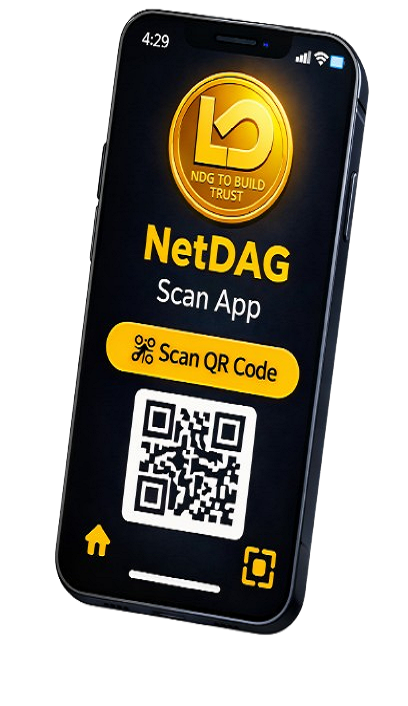
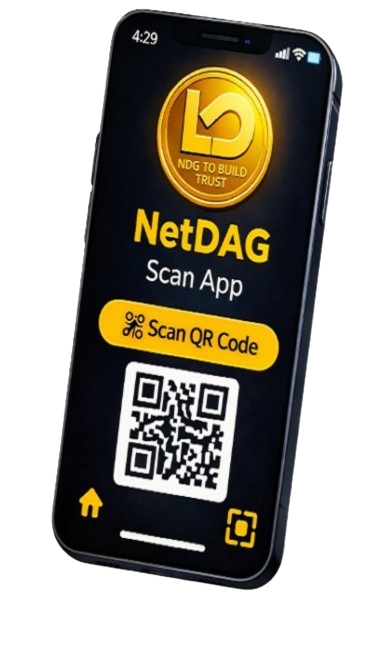
Update Provenance AI layer, Guardian messaging, and transparent phone image

diff --git a/provenance.html b/provenance.html
@@ -1064,7 +1064,7 @@
 
         <!-- Mobile-only phone goes HERE (inside prov-left) -->
         <img
-          src="images/ndg78.png"
+          src="images/ndg80transparent.png"
           class="prov-phone prov-phone-anim prov-phone--mobile"
           alt="NetDAG Scan App"
         />
@@ -1084,7 +1084,7 @@
       <div class="prov-right">
         <!-- Desktop phone goes HERE -->
         <img
-          src="images/ndg78.png"
+          src="images/ndg80transparent.png"
           class="prov-phone prov-phone-anim"
           alt="NetDAG Scan App"
         />
@@ -1095,7 +1095,55 @@
 </section> <!-- /#prov-hero -->
 <!-- Other sections unchanged... -->
 
-    <div class="section-separator" aria-hidden="true"></div>
+   <div class="site-separator" aria-hidden="true"></div>
+
+<section class="prov-ai-layer">
+  <div class="prov-ai-wrap">
+    <div class="prov-ai-head">
+      <span class="prov-ai-kicker">Guardian AI Trust Layer</span>
+      <h2>AI-powered authenticity intelligence for real-world products</h2>
+      <p>
+        NetDAG Provenance is designed to evolve beyond simple QR verification.
+        The Guardian AI layer will help brands, buyers, and marketplaces understand
+        product trust, counterfeit risk, and verification confidence in a clear way.
+      </p>
+    </div>
+
+    <div class="prov-ai-grid">
+      <article class="prov-ai-card">
+        <div class="prov-ai-icon">🧠</div>
+        <h3>Authenticity Rating</h3>
+        <p>
+          Future certificates can include an AI-assisted rating based on provenance
+          history, verified records, ownership signals, scan activity, and product lifecycle data.
+        </p>
+        <strong>Demo concept: 96/100 Guardian Confidence</strong>
+      </article>
+
+      <article class="prov-ai-card">
+        <div class="prov-ai-icon">🔍</div>
+        <h3>Counterfeit Risk Signals</h3>
+        <p>
+          Guardian AI can support counterfeit detection by reviewing suspicious patterns,
+          incomplete records, unusual resale behavior, location mismatches, and image-based signals.
+        </p>
+        <strong>Coming soon</strong>
+      </article>
+
+      <article class="prov-ai-card">
+        <div class="prov-ai-icon">⚖</div>
+        <h3>Brand Protection Tools</h3>
+        <p>
+          Future AI modules may help manufacturers monitor marketplaces, collect evidence,
+          and prepare takedown-ready reports for suspected counterfeit listings.
+        </p>
+        <strong>Enterprise roadmap</strong>
+      </article>
+    </div>
+  </div>
+</section>  
+
+<section id="prov-mvp-demo" class="prov-mvp-section">
 
 <section class="prov-s2">
   <div class="prov-s2-wrap">

diff --git a/guardian.html b/guardian.html
@@ -4,7 +4,7 @@
   <meta charset="utf-8" />
   <meta name="viewport" content="width=device-width, initial-scale=1" />
 
-  <title>NetDAG Guardian — AI That Guards Value</title>
+  <title>NetDAG Guardian AI — Trust, Authenticity & Risk Intelligence</title>
   <meta
     name="description"
     content="NetDAG Guardian is an AI intelligence layer designed to monitor NDG ecosystem risk, liquidity stress, reserve health, and Provenance confidence signals."
@@ -524,13 +524,12 @@
       <div class="section-inner">
         <div class="hero-inner">
           <h1 class="hero-title guardian-title">
-            NetDAG Guardian — <span class="hero-title-highlight">AI That Guards Value</span>
+    NetDAG Guardian AI — <span class="hero-title-highlight">Trust Intelligence for Products and Ecosystems</span>
           </h1>
 
           <p class="hero-kicker">
-            Financial intelligence with a human core — designed to think, predict, and protect.
-          </p>
-
+            An AI-powered trust layer designed to support authenticity, risk awareness, and real-world verification.
+          <p>
           <div class="guardian-hero-image">
             <img
               src="images/ndg-neuron1.png"
@@ -630,13 +629,13 @@
       <div class="section-inner narrow">
         <div class="content-block soft-card prose">
 
-          <h2>The Neuron AI</h2>
+          <h2>Guardian AI Trust Engine</h2>
 
           <p>
-            Guardian is designed to think like an investor and act like a protector — combining
-            human-style judgement with machine precision. It studies market sentiment, liquidity,
-            behaviour, and system pressure to help maintain equilibrium.
-          </p>
+            Guardian AI is NetDAG's intelligence layer for trust, authenticity, and ecosystem awareness.
+            It supports product verification, provenance confidence, risk signals, and future brand
+            protection tools without replacing the on-chain proof layer.
+        </p>
 
           <p>
             Concretely, the Guardian layer scores market conditions across multiple dimensions:

diff --git a/css/styles.css b/css/styles.css
@@ -9025,3 +9025,101 @@ body {
     transform: scale(1);
   }
 }
+
+/* ===============================
+   GUARDIAN AI TRUST LAYER
+   =============================== */
+
+.prov-ai-layer{
+  padding:90px 0;
+  background:
+    radial-gradient(circle at top left, rgba(255,153,0,.16), transparent 34%),
+    linear-gradient(180deg, rgba(10,12,18,.98), rgba(18,20,28,.98));
+}
+
+.prov-ai-wrap{
+  max-width:1200px;
+  margin:0 auto;
+  padding:0 18px;
+}
+
+.prov-ai-head{
+  max-width:850px;
+  margin:0 auto 36px;
+  text-align:center;
+}
+
+.prov-ai-kicker{
+  display:inline-flex;
+  padding:8px 14px;
+  border-radius:999px;
+  background:rgba(255,153,0,.12);
+  border:1px solid rgba(255,153,0,.28);
+  color:#ff9900;
+  font-weight:800;
+  margin-bottom:14px;
+}
+
+.prov-ai-head h2{
+  margin:0 0 16px;
+  color:#fff;
+  font-size:clamp(2rem,4vw,3.2rem);
+  line-height:1.08;
+}
+
+.prov-ai-head p{
+  color:rgba(255,255,255,.78);
+  line-height:1.7;
+  font-size:1.05rem;
+}
+
+.prov-ai-grid{
+  display:grid;
+  grid-template-columns:repeat(3,1fr);
+  gap:22px;
+}
+
+.prov-ai-card{
+  padding:26px;
+  border-radius:22px;
+  background:rgba(255,255,255,.045);
+  border:1px solid rgba(255,153,0,.18);
+  box-shadow:0 14px 34px rgba(0,0,0,.28);
+}
+
+.prov-ai-icon{
+  font-size:2.3rem;
+  margin-bottom:14px;
+}
+
+.prov-ai-card h3{
+  margin:0 0 12px;
+  color:#ff9900;
+  font-size:1.35rem;
+}
+
+.prov-ai-card p{
+  margin:0 0 18px;
+  color:rgba(255,255,255,.78);
+  line-height:1.65;
+}
+
+.prov-ai-card strong{
+  color:#fff;
+  font-weight:800;
+}
+
+@media(max-width:900px){
+  .prov-ai-grid{
+    grid-template-columns:1fr;
+  }
+
+  .prov-ai-layer{
+    padding:64px 0;
+  }
+}
+
+#prov-hero .prov-phone{
+  background: transparent !important;
+  mix-blend-mode: normal;
+}

diff --git a/index.html b/index.html
@@ -799,7 +799,7 @@
       </div>
 
       <div class="prov-phone-overlay">
-        <img src="images/ndg80transparent1.png" alt="NetDAG Scan App phone preview" class="prov-phone-zoom"
+        <img src="images/ndg80transparent.png" alt="NetDAG Scan App phone preview" class="prov-phone-zoom"
           loading="lazy" decoding="async" />
       </div>
 
@@ -853,16 +853,14 @@
       <div class="section-inner hero-overlay">
         <!-- HEADLINE (white & orange, correct size) -->
         <h2 class="guardian-title">
-          Neuron Guardian — <span class="accent-orange">AI That Guards Value</span>
+          Guardian AI — <span class="accent-orange">Trust, Authenticity, Intelligence.</span>
         </h2>
         <!-- SUBTITLE (clarity, reasonable size on all screens) -->
         <p class="hero-subtitle">
-          The NetDAG's Neuron Guardian is AI-driven authenticity and ecosystem monitoring built to protect digital
-          economies in real time.<br><br>
-          While others rely on static algorithms, our Guardian learns, adapts, and defends — analyzing market behavior,
-          liquidity flow,
-          and global sentiment 24/7. Its neural intelligence monitors behavioral signals, liquidity conditions, and ecosystem stress in real time, 
-helping the protocol respond more intelligently to changing network conditions around NDG.<br><br>
+          The NetDAG's Guardian is a trust, authenticity and ecosystem intelligence layer.<br><br>
+
+          It combines provenance verification, risk signals, counterfeit monitoring, trust scoring, 
+          and future brand protection tools into a unified system.<br><br>
         </p>
         <div class="preview-buttons">
   <a href="guardian.html" class="gasless-learn-btn">Learn More</a>
